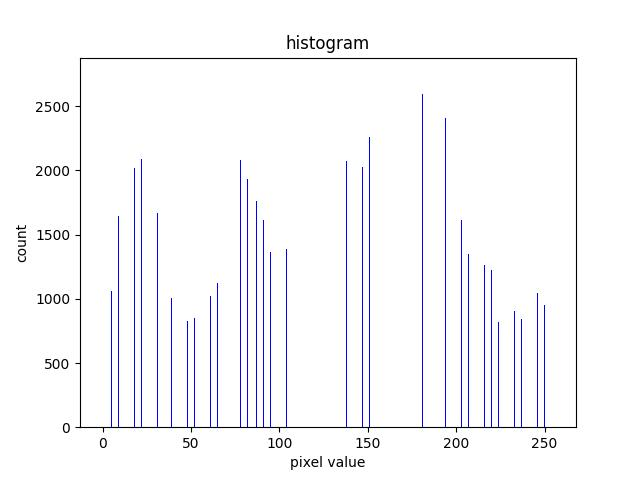
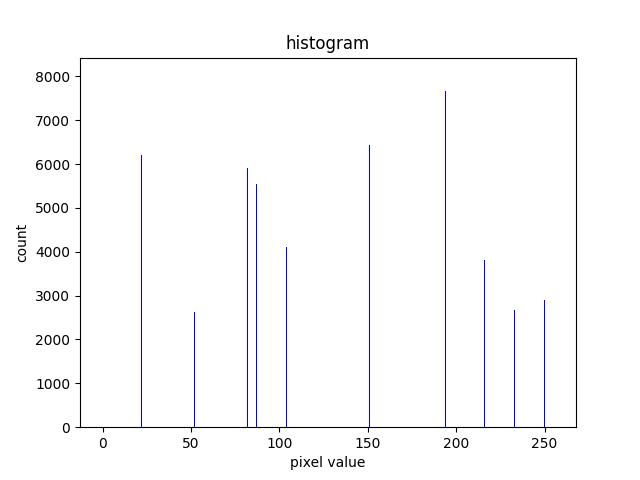
docs(hw_3): add homework report

diff --git a/hw_3/main.py b/hw_3/main.py
@@ -104,6 +104,7 @@ if __name__ == '__main__':
     if op == "hist":
         hist = get_hist(img)
         plot_hist(hist)
+        cv2.imwrite("original.jpg", img)
 
     elif op == "divide":
         divided_img = divide_intensity(img)
@@ -112,10 +113,11 @@ if __name__ == '__main__':
         cv2.imwrite("divided.jpg", img)
 
     elif op == "hist_eq":
-        equalized_img = equalize_hist(img)
+        divided_img = divide_intensity(img)
+        equalized_img = equalize_hist(divided_img)
         hist = get_hist(equalized_img)
         plot_hist(hist, filename="equalized_hist.jpg")
-        cv2.imwrite("equalized.jpg", img)
+        cv2.imwrite("equalized.jpg", equalized_img)
 
     else:
         raise Exception("unknown operation {}".format(op))

diff --git a/hw_3/report.md b/hw_3/report.md
@@ -1,0 +1,72 @@
+# Computer Vision Homework 3
+
+## Histogram Equalization
+
+**R11525079 游子霆**
+
+### Description
+In this homework, a program that can be used to generate
+(a) original image and its histogram
+(b) image with intensity divided by 3 and its histogram
+(c) image after applying histogram equalization to (b) and its histogram
+was implemented in python.
+
+
+### Part 1.
+**a. histogram**
+By going through each pixel and calculating the sum of each intensity value we can generate a histogram of the image.
+```python
+    hist = [0] * size
+
+    for ch_idx in range(ch):
+        for x in range(w):
+            for y in range(h):
+                value = img[y, x, ch_idx]
+
+                hist[value] += 1
+```
+A histogram and the original image can be generated using the following command:
+```shell
+python3 hw_3/main.py --img=inputs/lena.bmp --op=hist
+```
+![original.jpg](assets/original.jpg)
+![hist.jpg](assets/hist.jpg)
+
+**b. image with intensity divided by 3 and its histogram**
+By going through each pixel and divide the intensity of it we obtain the result.
+```python
+    for ch_idx in range(ch):
+        for x in range(w):
+            for y in range(h):
+                img[y, x, ch_idx] = img[y, x, ch_idx] // divider
+```
+The result image and its histogram can be generated using the following command:
+```shell
+python3 hw_3/main.py --img=inputs/lena.bmp --op=divide
+```
+![divided.jpg](assets/divided.jpg)
+![divided_hist.jpg](assets/divided_hist.jpg)
+
+**c. image after applying histogram equalization to (b) and its histogram**
+By calculating the accumulation rate and multiplying it to the max intensity, which is 255 in this case, we can map the original value to the equalized one.
+```python
+    pixel_sum = sum(hist)
+
+    accumulation = 0
+    eq_map = {}
+
+    for i in range(len(hist)):
+        accumulation += hist[i] / pixel_sum
+        eq_map[i] = accumulation * max_intensity
+
+    for ch_idx in range(ch):
+        for x in range(w):
+            for y in range(h):
+                img[y, x, ch_idx] = eq_map[img[y, x, ch_idx]]
+```
+The result image and its histogram can be generated using the following command:
+```shell
+python3 hw_2/main.py --img=inputs/lena.bmp --op=hist_eq
+```
+![equalized.jpg](assets/equalized.jpg)
+![equalized_hist.jpg](assets/equalized_hist.jpg)
